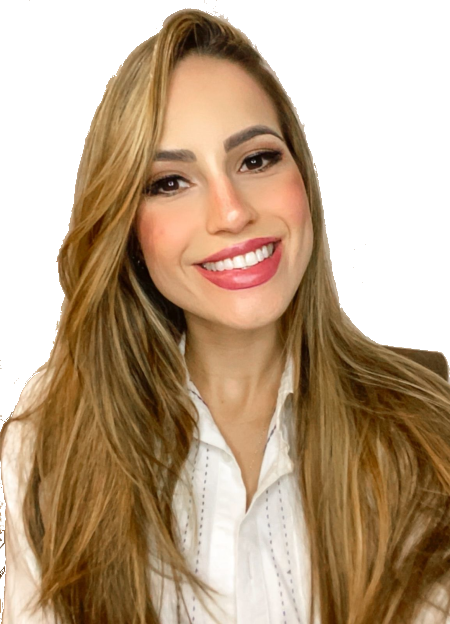
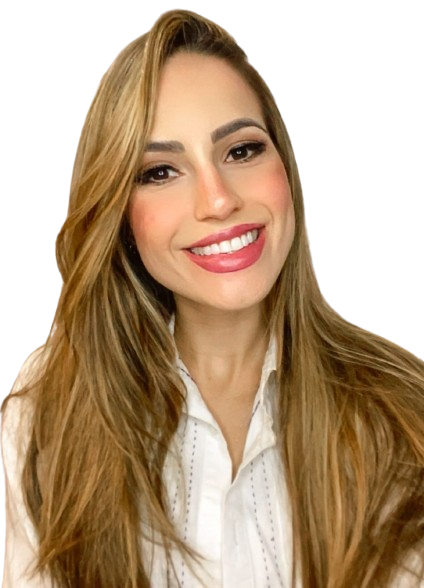
Alterei a imagem de perfil por uma com melhor recorte e alterei a fonte do branding

diff --git a/style.css b/style.css
@@ -3,11 +3,13 @@
 @import url('https://fonts.googleapis.com/css2?family=Babylonica&display=swap');
 @import url('https://fonts.googleapis.com/css2?family=Whisper&display=swap');
 @import url('https://fonts.googleapis.com/css2?family=Kapakana:wght@300..400&display=swap');
+@import url('https://fonts.googleapis.com/css2?family=Gwendolyn:wght@400;700&display=swap');
 
 :root {
     --font1: "Babylonica", cursive;
     --font2: "Whisper", cursive;
     --font3: "Kapakana", cursive;
+    --font4: "Gwendolyn", cursive;
     ;
 }
 
@@ -31,7 +33,7 @@ header {
 }
 
 header .branding {
-    font-family: var(--font1);
+    font-family: var(--font4);
     font-weight: 100px;
     font-size: clamp(1.8rem, 2vw, 4rem);
     color: #B22D93;

diff --git a/index.html b/index.html
@@ -16,7 +16,7 @@
             <div class="logo">
                 <img src="imagens/logoPI.png" alt="Logo">
             </div>
-            <h1 id="nomeHeader">Psicóloga Isabela Corrêa</h1>
+            <h1>Psicóloga Isabela Corrêa</h1>
         </div>
         <nav class="menu">
             <a href="#quemSou">Sobre mim</a>
